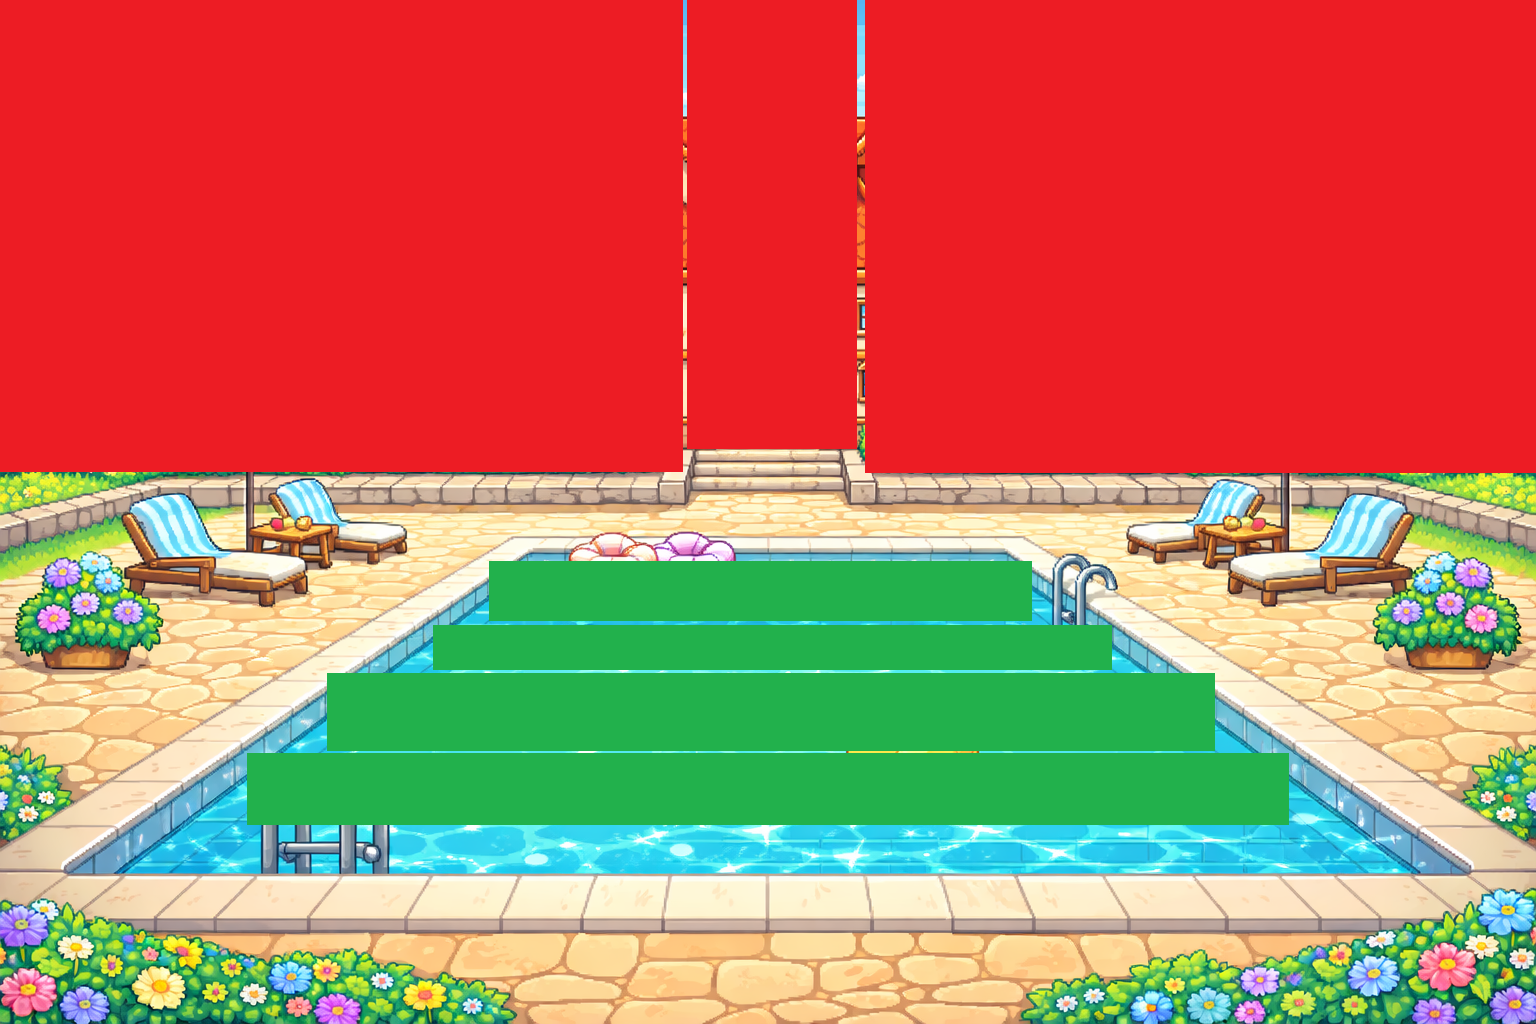
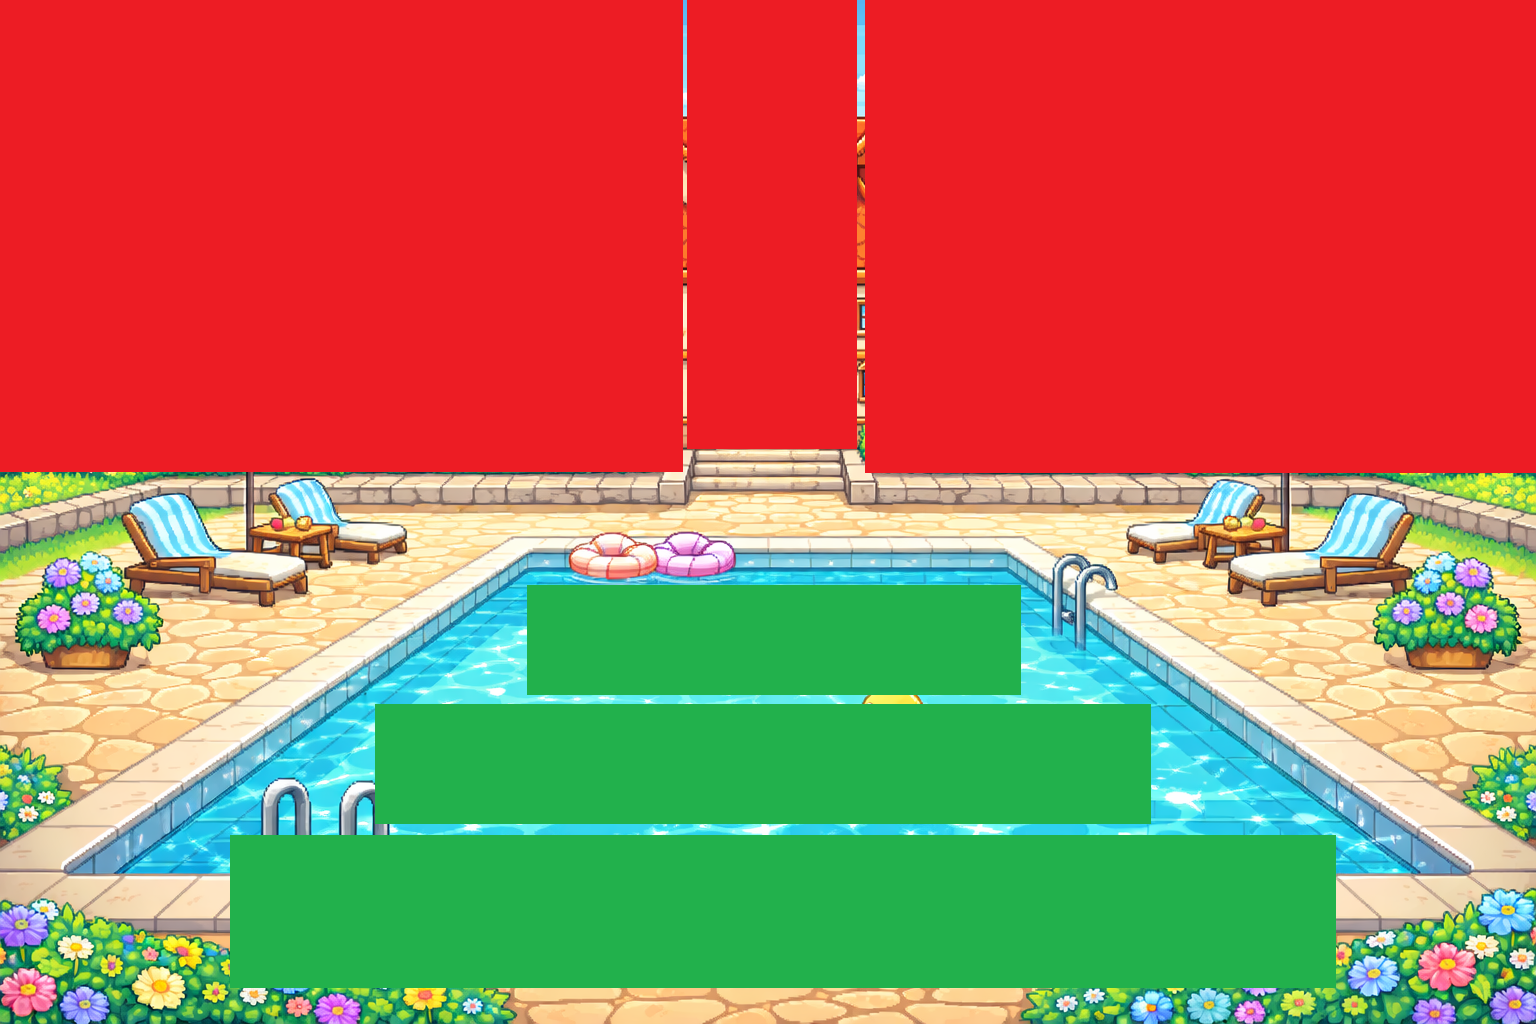
Add props system and integrate pool-ring prop; update scene configurations and cache version

Changed region(s): [[0.125, 0.5312, 0.875, 0.9688]]

diff --git a/src/scenes/PlayScene.js b/src/scenes/PlayScene.js
@@ -21,6 +21,8 @@ export class PlayScene extends Phaser.Scene {
         this.load.image('girl2', 'assets/characters/girl2.png');
         // NPCs
         this.load.image('flingo', 'assets/characters/flingo.png');
+        // Props
+        this.load.image('pool-ring', 'assets/props/pool-ring.png');
     }
 
     create() {
@@ -37,7 +39,7 @@ export class PlayScene extends Phaser.Scene {
         this.bg = this.add.sprite(scaledWidth / 2, scaledHeight / 2, 'grass');
         this.bg.setScale(this.scaleFactor);
         this.bg.setScrollFactor(1); // Move with camera for panning effect
-        this.currentBackground = 'resort-reception'; // default starting scene
+        this.currentBackground = 'grass'; // default starting scene
 
         // Create world bounds and player — scaled to match window
         this.worldWidth = scaledWidth;
@@ -142,6 +144,11 @@ export class PlayScene extends Phaser.Scene {
 
         // Storage for NPCs and interactive objects
         this.npcs = {}; // key -> sprite
+
+        // Storage for props
+        this.activeProp = null; // Currently active prop sprite
+        this.activePropKey = null; // Key of the active prop
+        this.activeSafePropObstacle = null; // Currently active safe obstacle with prop trigger
 
         // Dialog system
         this.dialogBox = null;
@@ -301,6 +308,12 @@ export class PlayScene extends Phaser.Scene {
         this.player.scaleX = Phaser.Math.Linear(this.player.scaleX, this.targetScaleX, lerp);
         this.player.scaleY = Phaser.Math.Linear(this.player.scaleY, this.targetScaleY, lerp);
 
+        // Keep prop positioned on character if active
+        if (this.activeProp) {
+            this.activeProp.setPosition(this.player.x, this.player.y);
+            this.activeProp.setFlipX(this.player.flipX);
+        }
+
         // Redraw debug graphics every frame so blue box follows character
         this.drawObstacleDebug();
 
@@ -344,6 +357,17 @@ export class PlayScene extends Phaser.Scene {
         const cfg = sceneConfigs[sceneKey];
         if (!cfg) return;
         this.currentBackground = sceneKey;
+        
+        // Clear active prop and character crop before changing scene
+        if (this.activeProp) {
+            this.activeProp.destroy();
+            this.activeProp = null;
+            this.activePropKey = null;
+        }
+        const src = this.textures.get(this.selected).getSourceImage();
+        if (src && src.width && src.height) {
+            this.player.setCrop(0, 0, src.width, src.height);
+        }
         
         // Update background texture and scale to match window width
         this.bg.setTexture(cfg.texture || cfg.key);
@@ -511,8 +535,76 @@ export class PlayScene extends Phaser.Scene {
         } else if (obstacle.eventTrigger.action === 'dialog') {
             this.showDialog(obstacle.eventTrigger.text);
             return true;
+        } else if (obstacle.eventTrigger.action === 'prop') {
+            const propKey = obstacle.eventTrigger.propKey;
+            const characterCrop = obstacle.eventTrigger.characterCrop;
+            this.activateProp(propKey, characterCrop);
+            return true;
         }
         return false;
+    }
+
+    activateProp(propKey, characterCrop) {
+        // Remove previous prop if any
+        if (this.activeProp) {
+            this.activeProp.destroy();
+            this.activeProp = null;
+        }
+
+        // Apply character crop if specified (percentage-based)
+        if (characterCrop) {
+            const src = this.textures.get(this.selected).getSourceImage();
+            if (src && src.width && src.height) {
+                // Convert percentages to source image pixels
+                const cropY = Math.round((characterCrop.y || 0) / 100 * src.height);
+                const cropHeight = Math.round((characterCrop.height || 100) / 100 * src.height);
+                
+                // Apply crop to player character
+                this.player.setCrop(0, cropY, src.width, cropHeight);
+            }
+        }
+
+        // Create and position the prop on top of the character
+        if (this.textures.exists(propKey)) {
+            this.activeProp = this.add.sprite(this.player.x, this.player.y, propKey);
+            this.activePropKey = propKey;
+
+            // Scale the prop (use scene config if available)
+            const sceneConfig = sceneConfigs[this.currentBackground] || {};
+            const propConfig = sceneConfig.props?.find(p => p.key === propKey);
+            const propScale = propConfig?.scale || 1.0;
+
+            const src = this.textures.get(propKey).getSourceImage();
+            if (src && src.width && src.height) {
+                const desiredH = 240 * this.scaleFactor;
+                const scale = desiredH / src.height;
+                const baseW = src.width * scale;
+                const baseH = src.height * scale;
+                
+                const finalW = Math.round(baseW * this.currentSceneScale * propScale);
+                const finalH = Math.round(baseH * this.currentSceneScale * propScale);
+                this.activeProp.setDisplaySize(finalW, finalH);
+            }
+
+            // Set prop depth below player so character appears on top
+            this.activeProp.setDepth(99);
+            this.activeProp.setOrigin(0.5, 0.5);
+        }
+    }
+
+    deactivateProp() {
+        // Remove active prop sprite
+        if (this.activeProp) {
+            this.activeProp.destroy();
+            this.activeProp = null;
+            this.activePropKey = null;
+        }
+
+        // Remove character crop to return them to normal
+        const src = this.textures.get(this.selected).getSourceImage();
+        if (src && src.width && src.height) {
+            this.player.setCrop(0, 0, src.width, src.height);
+        }
     }
 
     checkObstacleCollisions() {
@@ -569,7 +661,17 @@ export class PlayScene extends Phaser.Scene {
         if (safeObstacles.length > 0) {
             const safeCollision = checkCollisionAt(this.player.x, this.player.y, safeObstacles);
             if (safeCollision) {
+                // Check if this obstacle has a prop trigger
+                if (safeCollision.obstacle.eventTrigger?.action === 'prop') {
+                    this.activeSafePropObstacle = safeCollision.obstacle;
+                }
                 this.triggerObstacleEvent(safeCollision.obstacle, safeCollision.side);
+            } else {
+                // No longer in a safe obstacle - deactivate prop if we were in one
+                if (this.activeSafePropObstacle) {
+                    this.deactivateProp();
+                    this.activeSafePropObstacle = null;
+                }
             }
         }
 
@@ -746,6 +848,20 @@ export class PlayScene extends Phaser.Scene {
 
     renderNPCs(sceneKey) {
         const cfg = sceneConfigs[sceneKey];
+        
+        // Clear props from previous scene
+        if (this.activeProp) {
+            this.activeProp.destroy();
+            this.activeProp = null;
+            this.activePropKey = null;
+        }
+        
+        // Remove character crop when changing scenes
+        const src = this.textures.get(this.selected).getSourceImage();
+        if (src && src.width && src.height) {
+            this.player.setCrop(0, 0, src.width, src.height);
+        }
+        
         if (!cfg || !cfg.npcs) {
             // Clear existing NPCs if no NPCs in new scene
             Object.values(this.npcs).forEach(sprite => sprite.destroy());

diff --git a/src/sceneConfigs.js b/src/sceneConfigs.js
@@ -147,20 +147,26 @@ export const sceneConfigs = {
     // obstacles from red mask analysis at 1536x1024
     obstacles: [
       { x: 0, y: 0, width: 683, height: 472 },
-      { x: 687, y: 0, width: 170, height: 449, eventTrigger: { side: 'bottom', action: 'switchScene', targetScene: 'resort-reception', entryDir: 'fromRight' } },
+      { x: 687, y: 0, width: 170, height: 449 },
       { x: 865, y: 0, width: 671, height: 473 }
     ],
     // safe obstacles from green mask analysis (no collision, trigger events only)
     safeObstacles: [
-      { x: 489, y: 561, width: 543, height: 60, eventTrigger: { side: 'top', action: 'dialog', text: 'Welcome to the pool area!' } },
-      { x: 433, y: 625, width: 679, height: 45, eventTrigger: { side: 'top', action: 'dialog', text: 'Enjoy the water!' } },
-      { x: 327, y: 673, width: 888, height: 78, eventTrigger: { side: 'top', action: 'dialog', text: 'Please stay in the designated swimming area' } },
-      { x: 247, y: 753, width: 1042, height: 72, eventTrigger: { side: 'top', action: 'dialog', text: 'Pool rules apply!' } }
+      { x: 527, y: 585, width: 494, height: 110, eventTrigger: { side: 'top', action: 'prop', propKey: 'pool-ring', characterCrop: { y: 0, height: 50 } } },
+      { x: 375, y: 704, width: 776, height: 120, eventTrigger: { side: 'top', action: 'prop', propKey: 'pool-ring', characterCrop: { y: 0, height: 50 } } },
+      { x: 225, y: 835, width: 1112, height: 159, eventTrigger: { side: 'top', action: 'prop', propKey: 'pool-ring', characterCrop: { y: 0, height: 50 } } }
     ],
     // character scale for this scene
     characterScale: 0.8,
     // NPCs and interactive objects in this scene
     npcs: [],
+    // Props - interactive objects with positioning and effects
+    props: [
+      {
+        key: 'pool-ring',           // Texture key (must be preloaded from assets/props/)
+        scale: 0.8                  // Optional scale multiplier
+      }
+    ],
     bounds: null
   }
 };

diff --git a/src/main.js b/src/main.js
@@ -32,5 +32,5 @@ const config = {
 
 const game = new Phaser.Game(config);
 // Set debug flag in game registry so scenes can access it
-game.registry.set('debugMode', true);
+game.registry.set('debugMode', false);
             

diff --git a/sw.js b/sw.js
@@ -1,4 +1,4 @@
-const CACHE_NAME = 'flingo-resort-v6';
+const CACHE_NAME = 'flingo-resort-v7';
 const urlsToCache = [
   '/',
   '/index.html',

diff --git a/.github/copilot-instructions.md b/.github/copilot-instructions.md
@@ -83,6 +83,33 @@ This is a Phaser 3 HTML5 game using ES6 modules, focused on 2D pixel-art. Open `
 - Must be preloaded in `PlayScene.preload()` before use
 - Dialog system is a placeholder for future expansion (quests, conversations, etc.)
 
+## Props & Interactive Objects System
+- Props are interactive visual objects that can be layered on top of characters
+- Props are defined per-scene in `sceneConfigs.js` under a `props` array:
+  ```javascript
+  props: [
+    {
+      key: 'pool-ring',       // Texture key (must be preloaded from assets/props/)
+      scale: 0.8              // Optional scale multiplier
+    }
+  ]
+  ```
+- Props are triggered through safe obstacle `eventTrigger` actions:
+  ```javascript
+  eventTrigger: { 
+    side: 'top', 
+    action: 'prop', 
+    propKey: 'pool-ring',
+    characterCrop: { y: 50, height: 50 }  // Optional: crop character (percentages 0-100)
+  }
+  ```
+- Character cropping uses percentage-based coordinates (0-100) relative to source image dimensions
+- Cropping example: `{ y: 0, height: 50 }` shows the top 50% and hides the bottom 50% (sitting effect)
+- Props are automatically removed when entering a new scene
+- Props follow the character's position and flip with direction changes
+- Prop asset files should be placed in `assets/props/` (e.g., `assets/props/pool-ring.png`)
+- Must be preloaded in `PlayScene.preload()` before use
+
 ## Extracting Obstacles from Mask Images
 - Create mask images at the same dimensions as your background (1536×1024) with colored regions:
   - **Red (#ed1c23)** for blocking collision obstacles
@@ -105,6 +132,7 @@ This is a Phaser 3 HTML5 game using ES6 modules, focused on 2D pixel-art. Open `
 - Characters: `assets/characters/player.png`, `assets/characters/npc1.png`, or `assets/characters/player_spritesheet.png`.
 - Backgrounds: `assets/backgrounds/sky.png`, `assets/backgrounds/grass.png`, `assets/backgrounds/resort-outside.png`.
 - Obstacle masks: `assets/backgrounds/masks/grass.png`, `assets/backgrounds/masks/resort-outside.png`.
+- Props: `assets/props/pool-ring.png`, `assets/props/floatie.png`, etc.
 
 ## Development Workflow
 - Edit scenes in `src/scenes/` and `src/main.js`. Reload `index.html` in the browser to test.
